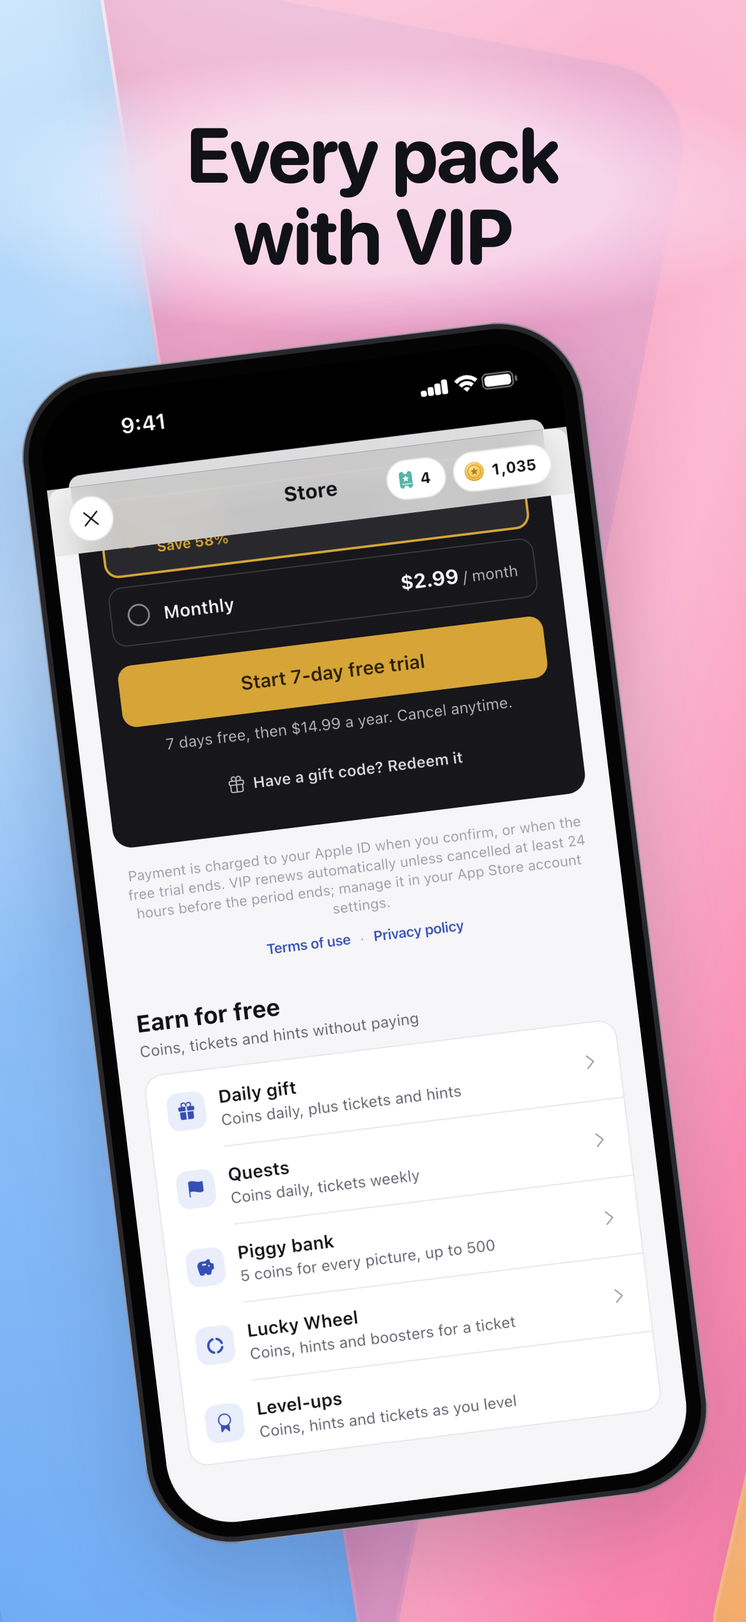
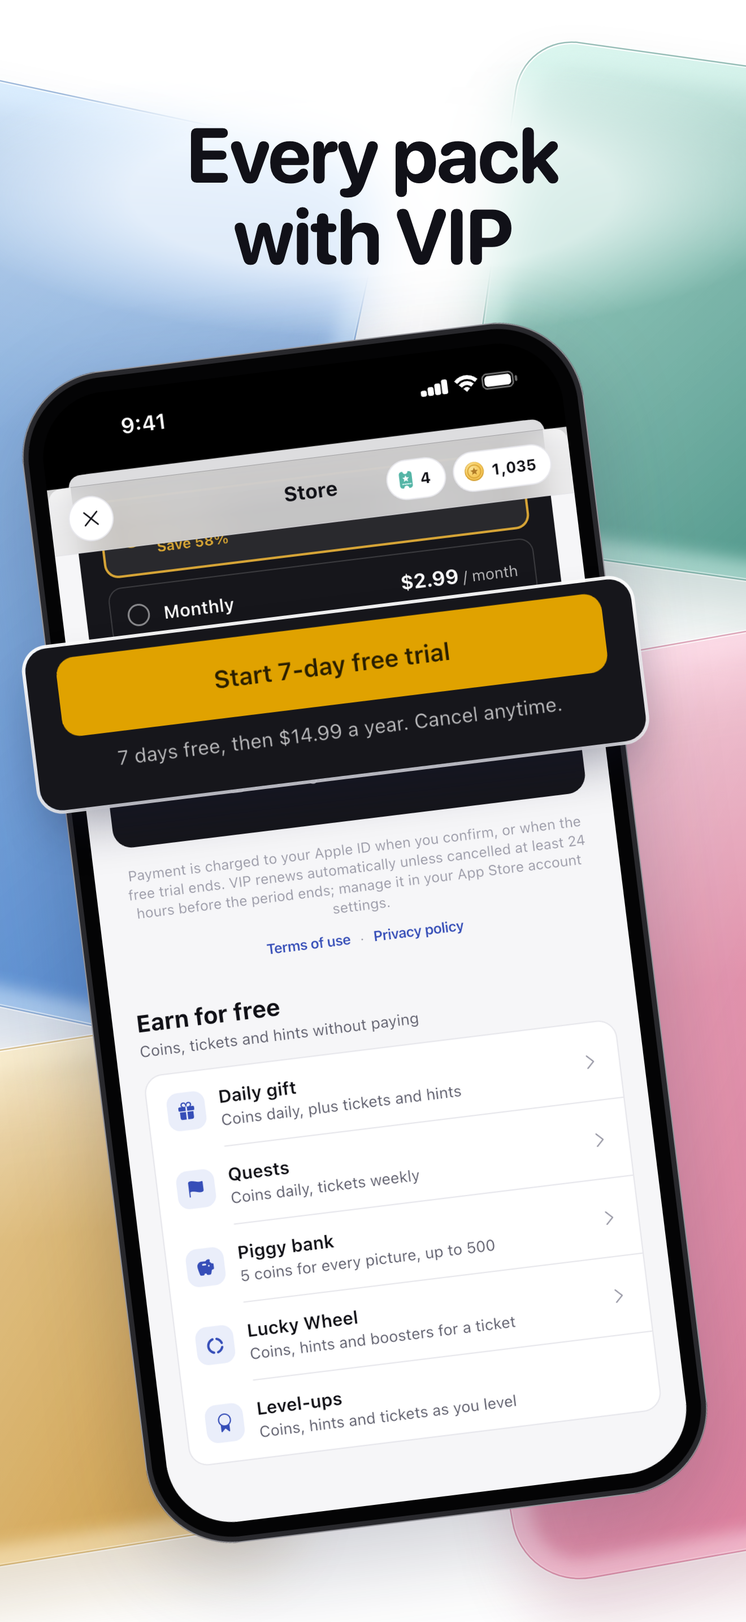
Store screenshots: glass panes on white, filled rows, cards that tilt with their phone
- The panes are drawn with the app icon's glass recipe (tinted see-through body, top sheen, light
  edge zone, rim of light, crisp edge, tinted shadow) on a white canvas; the bodies multiply, so
  overlaps mix like stained glass and white shows between them. Two panes per seam, alternating
  up and down. The dark finale draws them as deep jewel tones.
- Slide 2 gets a neat row of pack covers under its headline; slide 6 a row of solved daily
  pictures with their stars, so neither ends in empty space.
- Phones and their lifted cards share one frame: the live event card on slide 7 now tilts with its
  phone. A card that enlarges part of the same screen centres itself over it (no x/y needed).
- Slide 8 moves to the flat layout; slide 9 lifts out the 7-day trial; slide 4's shape cards stay
  inside the slide.

Not uploaded to App Store Connect yet.

diff --git a/tools/store/glass/slides.html b/tools/store/glass/slides.html
@@ -1,31 +1,24 @@
 <!doctype html>
 <!-- Carden App Store slides in the glass style. tools/store/compose_glass.py fills in __DATA__ and
-     __FONT__ and renders one slide per #<number> at 1320 x 2868. The look lives here (panes, halo,
-     headline, phones, break-out cards); the copy and the slide list live in compose_glass.py. -->
+     __FONT__ and renders one slide per #<number> at 1320 x 2868. The look lives here (glass panes,
+     halo, headline, phones, break-out cards, picture rows); the copy and slide list live in the script.
+     The panes use the app icon's glass recipe (tools/brand/icon-glass.js): a see-through tinted body,
+     a top sheen, a light edge zone, a rim of light, a crisp edge and a tinted shadow; on the white
+     canvas the bodies multiply, so overlapping panes mix like stained glass. -->
 <html><head><meta charset="utf-8"><style>
 @font-face { font-family: "Head"; src: url("__FONT__"); font-weight: 100 1000; }
 * { box-sizing: border-box; }
 html, body { margin: 0; background: transparent; }
-.slide { position: relative; width: 1320px; height: 2868px; overflow: hidden; background: #F3F3F7;
-  --ink: #111118; --halo: rgba(246,246,250,.62); --paneA: .74; --shade: rgba(30,30,60,.20); }
-.slide.dark { background: #0A0A10; --ink: #F5F5F8; --halo: rgba(10,10,16,.45); --paneA: .82; --shade: rgba(0,0,0,.6); }
+.slide { position: relative; width: 1320px; height: 2868px; overflow: hidden; background: #FFFFFF;
+  --ink: #111118; --halo: rgba(255,255,255,.66); --shade: rgba(28,30,60,.22); }
+.slide.dark { background: #0A0A10; --ink: #F5F5F8; --halo: rgba(10,10,16,.5); --shade: rgba(0,0,0,.6); }
+.world { position: absolute; top: 0; }
+.body { mix-blend-mode: multiply; }
+.dark .body { mix-blend-mode: normal; filter: brightness(.42) saturate(1.45); }
+.dark .top { opacity: .42; }
 
-/* Glass panes: one panorama across all slides, shifted per slide so a pane cut by an edge goes on. */
-.world { position: absolute; top: 0; height: 2868px; }
-.pane { position: absolute; border-radius: 150px; opacity: var(--paneA);
-  box-shadow: 0 80px 160px -40px var(--shade), inset 0 4px 0 rgba(255,255,255,.6), inset 0 -60px 120px rgba(0,0,0,.08); }
-.pane::before { content: ""; position: absolute; inset: 0; border-radius: inherit; padding: 6px;
-  background: linear-gradient(150deg, rgba(255,255,255,.95), rgba(255,255,255,.2) 25%, rgba(255,255,255,0) 55%, rgba(255,255,255,.5));
-  -webkit-mask: linear-gradient(#000 0 0) content-box, linear-gradient(#000 0 0); -webkit-mask-composite: xor; mask-composite: exclude; }
-.pane::after { content: ""; position: absolute; inset: 0; border-radius: inherit;
-  background: linear-gradient(115deg, rgba(255,255,255,0) 30%, rgba(255,255,255,.28) 42%, rgba(255,255,255,0) 54%),
-              radial-gradient(80% 40% at 25% 0%, rgba(255,255,255,.5), rgba(255,255,255,0) 60%); }
-.dark .pane { filter: brightness(.36) saturate(1.35); }
-.dark .pane::after { opacity: .5; }
-
-/* Headline on a soft frosted halo (no box). */
-.halo { position: absolute; left: -100px; right: -100px; border-radius: 50%; background: var(--halo);
-  -webkit-backdrop-filter: blur(40px) saturate(1.3); backdrop-filter: blur(40px) saturate(1.3);
+.halo { position: absolute; left: -120px; right: -120px; border-radius: 50%; background: var(--halo);
+  -webkit-backdrop-filter: blur(36px) saturate(1.2); backdrop-filter: blur(36px) saturate(1.2);
   -webkit-mask-image: radial-gradient(closest-side, #000 55%, transparent 100%); mask-image: radial-gradient(closest-side, #000 55%, transparent 100%); }
 h1 { position: absolute; left: 70px; right: 70px; margin: 0; text-align: center; white-space: nowrap;
   font-family: "Head"; font-weight: var(--weight); line-height: 1.06; letter-spacing: var(--track); color: var(--ink); }
@@ -33,45 +26,63 @@ h1 { position: absolute; left: 70px; right: 70px; margin: 0; text-align: center;
 .brand img { width: 108px; height: 108px; border-radius: 22.37%; box-shadow: 0 8px 24px rgba(0,0,0,.14); }
 .brand span { font-family: "Head"; font-weight: var(--weight); font-size: 76px; letter-spacing: var(--track); color: var(--ink); }
 
-.phone { position: absolute; filter: drop-shadow(0 60px 80px var(--shade)); transform-origin: 50% 40%; }
-.out { position: absolute; overflow: hidden; box-shadow: 0 50px 90px -24px rgba(20,20,50,.45), 0 0 0 6px rgba(255,255,255,.92); }
-.dark .out { box-shadow: 0 50px 90px -24px rgba(0,0,0,.7), 0 0 0 5px rgba(255,255,255,.3); }
+/* A phone and the cards lifted out of it share one frame, so a tilted phone tilts its cards too. */
+.phonebox { position: absolute; transform-origin: 50% 40%; }
+.phone { position: absolute; left: 0; top: 0; filter: drop-shadow(0 60px 80px var(--shade)); }
+.out { position: absolute; overflow: hidden; box-shadow: 0 46px 90px -24px rgba(20,22,50,.42), 0 0 0 6px rgba(255,255,255,.95); }
+.dark .out { box-shadow: 0 46px 90px -24px rgba(0,0,0,.7), 0 0 0 5px rgba(255,255,255,.3); }
 .out img { display: block; width: 100%; }
 .out b { position: absolute; left: 50%; bottom: 22px; transform: translateX(-50%); padding: 12px 26px; border-radius: 999px;
-  background: rgba(255,255,255,.88); font: 600 40px/1 "Head"; color: #111118; white-space: nowrap; }
-.cover { position: absolute; width: 300px; border-radius: 34px; object-fit: cover;
-  box-shadow: 0 40px 70px -20px rgba(20,20,50,.4), 0 0 0 6px rgba(255,255,255,.9); }
+  background: rgba(255,255,255,.9); font: 600 40px/1 "Head"; color: #111118; white-space: nowrap; }
+.pic { position: absolute; object-fit: cover; box-shadow: 0 36px 70px -20px rgba(20,22,50,.38), 0 0 0 6px rgba(255,255,255,.95); }
 </style></head><body><div id="root"></div><script>
 const S = __DATA__;
 const n = +(decodeURIComponent(location.hash.slice(1)) || 1), sl = S.slides[n - 1], W = S.W, H = S.H;
-const grad = c => `linear-gradient(165deg, ${S.glass[c][0]} 0%, ${S.glass[c][1]} 100%)`;
 const file = f => S.parts + "/" + f;
 document.documentElement.style.setProperty("--weight", S.font.weight);
 document.documentElement.style.setProperty("--track", S.font.track + "em");
 
+// ---- glass panes (one panorama; this slide shows its own window of it)
+function panesSVG() {
+  const defs = [], body = [], top = [];
+  S.panes.forEach((p, i) => {
+    const t = S.glass[p.c], cx = p.x + p.w / 2, cy = p.y + p.h / 2, rx = p.rx;
+    const rot = `rotate(${p.r} ${cx} ${cy})`, rect = a => `<rect x="${p.x}" y="${p.y}" width="${p.w}" height="${p.h}" rx="${rx}" ${a}/>`;
+    defs.push(`<linearGradient id="b${i}" x1="0" y1="0" x2="1" y2="1"><stop offset="0" stop-color="${t.hi}" stop-opacity="${S.body[0]}"/><stop offset="1" stop-color="${t.lo}" stop-opacity="${S.body[1]}"/></linearGradient>`,
+      `<linearGradient id="s${i}" x1="0" y1="0" x2="0" y2="1"><stop offset="0" stop-color="#fff" stop-opacity=".42"/><stop offset=".38" stop-color="#fff" stop-opacity="0"/></linearGradient>`,
+      `<linearGradient id="g${i}" x1=".1" y1="0" x2=".9" y2="1"><stop offset="0" stop-color="#fff" stop-opacity="1"/><stop offset=".3" stop-color="#fff" stop-opacity=".5"/><stop offset=".62" stop-color="#fff" stop-opacity=".12"/><stop offset="1" stop-color="#fff" stop-opacity=".6"/></linearGradient>`,
+      `<clipPath id="c${i}">${rect("")}</clipPath>`);
+    // tinted shadow, then the body (multiplied, so overlaps mix like stained glass)
+    body.push(`<g transform="${rot}">${rect(`fill="${t.shadow}" opacity="${S.shadow}" filter="url(#blur)" transform="translate(0 70)"`)}</g>`,
+      `<g class="body" transform="${rot}">${rect(`fill="url(#b${i})"`)}</g>`);
+    // sheen, light edge zone (thickness), rim of light, crisp edge
+    top.push(`<g class="top" transform="${rot}">${rect(`fill="url(#s${i})"`)}` +
+      `<g clip-path="url(#c${i})">${rect(`fill="none" stroke="${t.edge}" stroke-width="70" opacity=".55" filter="url(#soft)"`)}</g>` +
+      rect(`fill="none" stroke="url(#g${i})" stroke-width="7"`) + rect(`fill="none" stroke="${t.line}" stroke-width="2.5" opacity=".42"`) + `</g>`);
+  });
+  return `<svg class="world" style="left:${-(n - 1) * W}px" width="${W * S.slides.length}" height="${H}" viewBox="0 0 ${W * S.slides.length} ${H}">` +
+    `<defs><filter id="blur" x="-30%" y="-30%" width="160%" height="160%"><feGaussianBlur stdDeviation="55"/></filter>` +
+    `<filter id="soft" x="-10%" y="-10%" width="120%" height="120%"><feGaussianBlur stdDeviation="14"/></filter>${defs.join("")}</defs>` +
+    body.join("") + top.join("") + `</svg>`;
+}
+
 function render(size) {
-  let h = `<div class="world" style="left:${-(n - 1) * W}px;width:${W * S.slides.length}px">` + S.panes.map(p =>
-    `<div class="pane" style="left:${p.x}px;top:${p.y}px;width:${p.w}px;height:${p.h}px;transform:rotate(${p.r}deg);background:${grad(p.c)}"></div>`).join("") + `</div>`;
+  let h = panesSVG();
   const lines = sl.head.split("\n").length, lh = size * 1.06, L = S.layout;
   let headTop, phoneTop;
   if (sl.layout === "B") { phoneTop = L.b_phone_top; headTop = phoneTop + S.phone_h + L.b_gap; }
   else { headTop = sl.brand ? L.a_head_top_brand : L.a_head_top; phoneTop = headTop + lines * lh + L.a_gap; }
-  (sl.covers || []).forEach(c => { h += `<img class="cover" src="${c.src}" style="left:${c.x}px;top:${c.y}px;height:${c.h}px;transform:rotate(${c.r}deg)">`; });
+  const pics = (sl.pics || []).map(c => `<img class="pic" src="${c.src}" style="left:${c.x}px;top:${c.y}px;width:${c.w}px;height:${c.h}px;border-radius:${c.radius}px;transform:rotate(${c.r}deg)">`).join("");
+  h += pics;  // floating covers and picture rows sit behind the halo and the phone
   const haloTop = headTop - (sl.brand ? 230 : 110), haloH = lines * lh + (sl.brand ? 340 : 220);
   h += `<div class="halo" style="top:${haloTop}px;height:${haloH}px"></div>`;
   if (sl.brand) h += `<div class="brand" style="top:${headTop - 190}px"><img src="${S.icon}"><span>Carden</span></div>`;
   h += `<h1 style="top:${headTop}px;font-size:${size}px">${sl.head.replace(/\n/g, "<br>")}</h1>`;
-  const left = (W - S.phone_w) / 2, tilt = sl.tilt || 0;
-  if (sl.second) {  // two phones, same size: the second one behind, leaning the other way
-    h += `<img class="phone" src="${file(sl.second)}" style="width:${S.phone_w}px;left:${left + 250}px;top:${phoneTop + 140}px;transform:rotate(${tilt + 3}deg)">`;
-    h += `<img class="phone" src="${file(sl.phone)}" style="width:${S.phone_w}px;left:${left - 230}px;top:${phoneTop}px;transform:rotate(${-tilt + 2}deg)">`;
-  } else {
-    const dx = tilt ? (tilt < 0 ? -40 : 40) : 0;
-    h += `<img class="phone" src="${file(sl.phone)}" style="width:${S.phone_w}px;left:${left + dx}px;top:${phoneTop}px;transform:rotate(${tilt}deg)">`;
-  }
-  (sl.out || []).forEach(o => {  // break-out cards, placed from the phone's top edge
-    h += `<div class="out" style="left:${o.x}px;top:${phoneTop + o.y}px;width:${o.w}px;border-radius:${o.radius}px;transform:rotate(${o.rot}deg)"><img src="${file(o.img)}">${o.label ? `<b>${o.label}</b>` : ""}</div>`;
-  });
+  const tilt = sl.tilt || 0, left = (W - S.phone_w) / 2 + (tilt ? (tilt < 0 ? -40 : 40) : 0);
+  const box = (x, y, rot, inner) => `<div class="phonebox" style="left:${x}px;top:${y}px;width:${S.phone_w}px;height:${S.phone_h}px;transform:rotate(${rot}deg)">${inner}</div>`;
+  if (sl.second) h += box(left + 250, phoneTop + 140, tilt + 3, `<img class="phone" src="${file(sl.second)}" style="width:${S.phone_w}px">`);
+  const outs = (sl.out || []).map(o => `<div class="out" style="left:${o.x}px;top:${o.y}px;width:${o.w}px;border-radius:${o.radius}px;transform:rotate(${o.rot}deg)"><img src="${file(o.img)}">${o.label ? `<b>${o.label}</b>` : ""}</div>`).join("");
+  h += box(sl.second ? left - 230 : left, phoneTop, sl.second ? -tilt + 2 : tilt, `<img class="phone" src="${file(sl.phone)}" style="width:${S.phone_w}px">${outs}`);
   document.getElementById("root").innerHTML = `<div class="slide${sl.dark ? " dark" : ""}">${h}</div>`;
 }
 // One headline size for the set; a slide shrinks only when a line would not fit the measure.

diff --git a/tools/store/compose_glass.py b/tools/store/compose_glass.py
@@ -6,7 +6,7 @@
     .venv/bin/python tools/store/compose_glass.py --font newyork    # rounded (default) | display | newyork
     .venv/bin/python tools/store/compose_glass.py --out /tmp/x --sheet /tmp/sheet.png
 
-Edit the copy and the slides in SLIDES below, the pane colours in GLASS; the look (panes, halo,
+Edit the copy and the slides in SLIDES below, the pane colours in GLASS_BASE; the look (panes, halo,
 headline, phones, break-out cards) is in tools/store/glass/slides.html. The app parts come from the
 raw captures of integration_test/store_screenshots_test.dart in store/raw/: light slides use the
 `<name>_light.png` captures (run the test with --dart-define=CJW_STORE_THEME=light), dark slides the
@@ -32,48 +32,83 @@ W, H = cs.W, cs.H
 
 # --------------------------------------------------------------------------------------------
 # The slides. Layouts: "A" headline on top, flat phone below; "B" phone from the top edge, headline
-# below; "C" headline on top, phone tilted `tilt` degrees (5-15; alternate the direction).
-# `phone`/`second`: capture names in store/raw (without _light). `out`: break-out cards cut from a
-# capture: `crop` is (capture, (left, top, right, bottom) in capture px) or (capture, "board");
-# x is slide px, y is measured from the phone's top edge, w is the card width. A card that
-# enlarges part of the same screen sits centred over that part (y = 37 + centre_px * 0.7015
-# - card_h / 2 for a flat phone), so it never shows twice. `second` puts a second phone behind.
+# below, a row of pictures under it; "C" headline on top, phone tilted `tilt` degrees (5-15;
+# alternate the direction). Slides 1-3 stay flat: search results show them as thumbnails.
+# `phone`/`second`: capture names in store/raw (without _light).
+# `out`: cards lifted out of the phone, cut from a capture: `crop` is (capture, (left, top, right,
+#   bottom) in capture px) or (capture, "board"); `w` is the card width. Without x/y the card sits
+#   centred over the same part of the phone's screen (so it never shows twice); with x/y it is
+#   placed in phone px (0,0 = the phone's top-left, before any tilt). Cards tilt with their phone.
+# `pics`: pictures on the slide itself: ("covers", ...) for pack covers from store/collage, or
+#   capture crops; laid out by `fan()` as a neat row, or at fixed spots.
 # Headlines: 2 lines, about five words; "\n" breaks the line. No subtext (illegible in search).
+
+DAILY = "18_daily_month_grid"
+STARRED = [(62, 840, 340, 1176), (674, 840, 952, 1176), (368, 1208, 646, 1546), (980, 1208, 1258, 1546), (368, 1576, 646, 1914)]
 
 SLIDES = [
     {"layout": "A", "head": "Swap cards.\nReveal the picture.", "phone": "03_game_cards", "brand": True},
-    {"layout": "B", "head": "Thousands\nof pictures", "phone": "15_library", "covers": True},
-    {"layout": "A", "head": "A new picture\nevery day", "phone": "18_daily_month_grid",
-     "out": [{"crop": ("18_daily_month_grid", (60, 530, 1260, 775)), "x": 70, "y": 374, "w": 1180, "radius": 44}]},
+    {"layout": "B", "head": "Thousands\nof pictures", "phone": "15_library",
+     "pics": [{"covers": [0, 3, 6, 9], "spots": [(-50, 300, 330, -8), (1040, 230, 380, 7), (-70, 1120, 330, 6), (1060, 1060, 380, -6)]},
+              {"covers": [12, 15, 18, 1, 4], "fan": {"w": 228, "h": 296, "top": 2480, "step": 244, "spread": 9, "drop": 50}}]},
+    {"layout": "A", "head": "A new picture\nevery day", "phone": DAILY,
+     "out": [{"crop": (DAILY, (60, 530, 1260, 775)), "w": 1180, "radius": 44}]},
     {"layout": "C", "head": "Four ways\nto play", "phone": "09_mode_hexagons", "tilt": -7,
-     "out": [{"crop": ("06_mode_cards", "board"), "x": 40, "y": 872, "w": 430, "rot": -9, "label": "Cards"},
-             {"crop": ("07_mode_squares", "board"), "x": 860, "y": 572, "w": 400, "rot": 8, "label": "Squares"},
-             {"crop": ("08_mode_triangles", "board"), "x": 880, "y": 1472, "w": 400, "rot": 5, "label": "Triangles"}]},
+     "out": [{"crop": ("06_mode_cards", "board"), "x": -60, "y": 880, "w": 430, "rot": -9, "label": "Cards"},
+             {"crop": ("07_mode_squares", "board"), "x": 690, "y": 560, "w": 400, "rot": 8, "label": "Squares"},
+             {"crop": ("08_mode_triangles", "board"), "x": 680, "y": 1440, "w": 400, "rot": 5, "label": "Triangles"}]},
     {"layout": "A", "head": "Puzzle your\nown photos", "phone": "20_my_puzzles",
-     "out": [{"crop": ("21_my_puzzle_game", "board"), "x": 700, "y": 1060, "w": 560, "rot": 4, "radius": 40}]},
+     "out": [{"crop": ("21_my_puzzle_game", "board"), "x": 540, "y": 1060, "w": 560, "rot": 4, "radius": 40}]},
     {"layout": "B", "head": "Fewer moves,\nmore stars", "phone": "04_complete",
-     "out": [{"crop": ("04_complete", (40, 1400, 1280, 1890)), "x": 60, "y": 954, "w": 1200, "radius": 48}]},
+     "out": [{"crop": ("04_complete", (40, 1400, 1280, 1890)), "w": 1200, "radius": 48}],
+     "pics": [{"crops": [(DAILY, b) for b in STARRED], "fan": {"w": 228, "h": 276, "top": 2480, "step": 250, "spread": 8, "drop": 44}, "radius": 22}]},
     {"layout": "C", "head": "Quests and\nlive events", "phone": "13_quests", "tilt": 7,
-     "out": [{"crop": ("14_quests_live", (60, 1440, 1260, 2480)), "x": 110, "y": 1130, "w": 900, "rot": -4, "radius": 44}]},
-    {"layout": "B", "head": "Climb the\nleaderboard", "phone": "22_social_league",
-     "out": [{"crop": ("22_social_league", (60, 720, 1260, 1200)), "x": 70, "y": 474, "w": 1180, "radius": 48}]},
-    {"layout": "C", "head": "Every pack\nwith VIP", "phone": "12_store_vip", "tilt": -7},
+     "out": [{"crop": ("14_quests_live", (60, 1440, 1260, 2480)), "x": 50, "y": 1180, "w": 900, "radius": 44}]},
+    {"layout": "A", "head": "Climb the\nleaderboard", "phone": "22_social_league",
+     "out": [{"crop": ("22_social_league", (60, 720, 1260, 1200)), "w": 1180, "radius": 48}]},
+    {"layout": "C", "head": "Every pack\nwith VIP", "phone": "12_store_vip", "tilt": -7,
+     "out": [{"crop": ("12_store_vip", (60, 670, 1260, 990)), "w": 1080, "radius": 40}]},
     {"layout": "A", "head": "Just as calm\nin the dark", "phone": "03_game_cards", "dark": True},
 ]
 
-# Pack covers floating beside the Library phone (slide px; height; rotation).
-COVER_SPOTS = [(-40, 380, 330, -8), (1040, 300, 380, 7), (-60, 1180, 330, 6), (1060, 1120, 380, -6), (20, 1960, 330, -4), (1000, 1900, 380, 9)]
-
-# Lotus glass: (light end, deep end) of each pane colour, as in the app icon.
-GLASS = {"pink": ("#FFA3C3", "#FF4F8B"), "gold": ("#FFDB80", "#F2A516"), "blue": ("#A9D8FF", "#2F86F2"), "teal": ("#8BE8CF", "#14A58B")}
+# Lotus glass, as in the app icon: the light and deep end of each pane colour.
+GLASS_BASE = {"pink": ("#FF8FB5", "#FF4F8B"), "gold": ("#FFD36A", "#F0A30F"), "blue": ("#8CCBFF", "#2F86F2"), "teal": ("#7FE3C9", "#16927E")}
 PANE_COLOURS = ["blue", "pink", "gold", "teal"]
+BODY_OPACITY = (.5, .74)  # light end, deep end of a pane's tinted body
+SHADOW_OPACITY = .2
+
+
+def mix(a: str, b: str, t: float) -> str:
+    x, y = (tuple(int(c[i:i + 2], 16) for i in (1, 3, 5)) for c in (a, b))
+    return "#" + "".join(f"{round(p + (q - p) * t):02x}" for p, q in zip(x, y))
+
+
+def glass_tones() -> dict:
+    """The tones of each glass colour (icon-glass.js): body ends, edge zone, crisp line, shadow."""
+    return {k: {"hi": mix(c0, "#ffffff", .22), "lo": mix(c1, "#000000", .1), "edge": mix(c0, "#ffffff", .7),
+                "line": mix(c1, "#000000", .3), "shadow": mix(c1, "#000000", .45)} for k, (c0, c1) in GLASS_BASE.items()}
 
 
 def panes(n: int) -> list[dict]:
-    """One huge pane centred on every seam (and both outer edges), so every screenshot shows two big
-    panes meeting on a diagonal and a pane cut by an edge goes on in the next screenshot."""
-    return [{"x": k * W - 980 + (60 if k % 2 else -60), "y": -420 + (k % 3) * 170, "w": 1960, "h": 3500,
-             "r": [11, -9, 13, -11][k % 4], "c": PANE_COLOURS[k % len(PANE_COLOURS)]} for k in range(n + 1)]
+    """Two panes on every seam (and both outer edges): a large one and a smaller one on the other
+    band, alternating up and down, so white canvas shows between them, a pane cut by a slide edge
+    goes on in the next slide, and only the background ever crosses a seam."""
+    out = []
+    for k in range(n + 1):
+        up = k % 2 == 0
+        out.append({"x": k * W - 590 + (50 if k % 2 else -50), "y": 150 if up else 1120, "w": 1180, "h": 1600,
+                    "rx": 120, "r": [12, -10, 10, -12][k % 4], "c": PANE_COLOURS[k % 4]})
+        out.append({"x": k * W - 380 + (-80 if k % 2 else 80), "y": 1850 if up else 110, "w": 760, "h": 900,
+                    "rx": 100, "r": [-9, 8, -7, 9][k % 4], "c": PANE_COLOURS[(k + 2) % 4]})
+    return out
+
+
+def fan(items: list[str], w: int, h: int, top: int, step: int, spread: float, drop: float, radius: int) -> list[dict]:
+    """A neat row of pictures centred on the slide, on a gentle arc: the middle one highest and
+    straight, the outer ones lower and turned outwards."""
+    mid = (len(items) - 1) / 2 or 1
+    return [{"src": src, "x": round(W / 2 + (i - mid) * step - w / 2), "y": round(top + drop * ((i - mid) / mid) ** 2),
+             "w": w, "h": h, "r": round(spread * (i - mid) / mid, 1), "radius": radius} for i, src in enumerate(items)]
 
 
 FONTS = {  # headline face: file, weight, tracking (em)
@@ -105,13 +140,21 @@ def board(name: str) -> tuple[int, int, int, int]:
     return round(left), round(top), round(left + w), round(top + h)
 
 
+def phone_screen() -> tuple[float, float]:
+    """Where a capture sits inside the phone frame of compose_screenshots.phone(): offset, scale."""
+    band, bezel = round(PHONE_W * 0.011), round(PHONE_W * 0.026)
+    return band + bezel, (PHONE_W - 2 * (band + bezel)) / cs.RAW_W
+
+
 def export_parts(parts: Path) -> list[dict]:
-    """Phones (one size) and break-out crops for every slide, as files the template loads."""
+    """Phones (one size), lifted cards and slide pictures for every slide, as files the template loads."""
+    off, k = phone_screen()
+    covers = [cs.COLLAGE / f"{p}.jpg" for p in cs.COLLAGE_PACKS if (cs.COLLAGE / f"{p}.jpg").exists()]
     slides = []
     for i, s in enumerate(SLIDES, start=1):
         dark = bool(s.get("dark"))
         edge = (20, 20, 24) if dark else (240, 240, 244)
-        d = {k: s[k] for k in ("layout", "head", "brand", "tilt", "dark") if k in s}
+        d = {key: s[key] for key in ("layout", "head", "brand", "tilt", "dark") if key in s}
         for key in ("phone", "second"):
             if key in s:
                 n = capture(s[key], dark)
@@ -120,19 +163,34 @@ def export_parts(parts: Path) -> list[dict]:
                     cs.phone(cs.load_raw(n), PHONE_W, edge).save(parts / f)
                 d[key] = f
         d["out"] = []
-        for k, o in enumerate(s.get("out", [])):
+        for j, o in enumerate(s.get("out", [])):
             n = capture(o["crop"][0], dark)
             box = board(n) if o["crop"][1] == "board" else o["crop"][1]
-            f = f"crop-{i}-{k}.png"
+            f = f"crop-{i}-{j}.png"
             cs.load_raw(n).crop(box).save(parts / f)
-            d["out"].append({"img": f, "x": o["x"], "y": o["y"], "w": o["w"], "rot": o.get("rot", 0),
+            h = (box[3] - box[1]) * o["w"] / (box[2] - box[0])
+            x = o.get("x", off + (box[0] + box[2]) / 2 * k - o["w"] / 2)
+            y = o.get("y", off + (box[1] + box[3]) / 2 * k - h / 2)
+            d["out"].append({"img": f, "x": round(x), "y": round(y), "w": o["w"], "rot": o.get("rot", 0),
                              "radius": o.get("radius", 34), "label": o.get("label", "")})
-        if s.get("covers"):
-            covers = [cs.COLLAGE / f"{p}.jpg" for p in cs.COLLAGE_PACKS if (cs.COLLAGE / f"{p}.jpg").exists()]
-            if not covers:
-                sys.exit("no pack covers in store/collage/; run tools/store/compose_screenshots.py --refresh-collage")
-            d["covers"] = [{"src": str(covers[j * 3 % len(covers)]), "x": x, "y": y, "h": h, "r": r}
-                           for j, (x, y, h, r) in enumerate(COVER_SPOTS)]
+        d["pics"] = []
+        for j, g in enumerate(s.get("pics", [])):
+            if "covers" in g:
+                if not covers:
+                    sys.exit("no pack covers in store/collage/; run tools/store/compose_screenshots.py --refresh-collage")
+                srcs = [str(covers[c % len(covers)]) for c in g["covers"]]
+            else:
+                srcs = []
+                for m, (name, box) in enumerate(g["crops"]):
+                    f = f"pic-{i}-{j}-{m}.png"
+                    cs.load_raw(capture(name, dark)).crop(box).save(parts / f)
+                    srcs.append(str(parts / f))
+            radius = g.get("radius", 30)
+            if "fan" in g:
+                d["pics"] += fan(srcs, radius=radius, **g["fan"])
+            else:
+                d["pics"] += [{"src": src, "x": x, "y": y, "w": round(hh * .8), "h": hh, "r": r, "radius": radius}
+                              for src, (x, y, hh, r) in zip(srcs, g["spots"])]
         slides.append(d)
     return slides
 
@@ -177,7 +235,8 @@ def main(argv: list[str]) -> None:
     for f in parts.glob("*.png"):
         f.unlink()
     font_file, weight, track = FONTS[a.font]
-    data = {"W": W, "H": H, "slides": export_parts(parts), "panes": panes(len(SLIDES)), "glass": GLASS,
+    data = {"W": W, "H": H, "slides": export_parts(parts), "panes": panes(len(SLIDES)), "glass": glass_tones(),
+            "body": BODY_OPACITY, "shadow": SHADOW_OPACITY,
             "parts": str(parts), "icon": str(ICON), "phone_w": PHONE_W,
             "phone_h": Image.open(next(parts.glob("phone-*.png"))).height,
             "head_size": HEAD_SIZE, "measure": MEASURE, "layout": LAYOUT,

diff --git a/store/README.md b/store/README.md
@@ -3,8 +3,8 @@
 Everything in this folder is generated. Edit the sources under `tools/store/`
 and the capture test, then rerun; do not hand-edit the PNGs.
 
-Design rules (glass set, `tools/store/compose_glass.py`): large panes of
-coloured glass in the lotus colours running across the whole set, light app
+Design rules (glass set, `tools/store/compose_glass.py`): panes of coloured
+glass in the lotus colours on a white canvas, running across the whole set, light app
 captures on a light canvas for slides 1-9 and a dark finale (slide 10), one
 phone size, three layouts, two-line headlines in SF Pro Rounded sized for
 search-result thumbnails, no subtext, no emoji, no ratings or awards. The
@@ -30,14 +30,14 @@ daily hook.
 | Slide | Headline | Layout | Shows (light captures unless noted) |
 | --- | --- | --- | --- |
 | `01.png` | Swap cards. Reveal the picture. | A + icon | `raw/03_game_cards`: Monarch butterfly, most cards placed |
-| `02.png` | Thousands of pictures | B | `raw/15_library` with real pack covers (`collage/`) floating beside it |
+| `02.png` | Thousands of pictures | B | `raw/15_library`, pack covers (`collage/`) beside it and in a row below |
 | `03.png` | A new picture every day | A | `raw/18_daily_month_grid`, today's card lifted out |
 | `04.png` | Four ways to play | C, -7 deg | `raw/09_mode_hexagons`, with the cards, squares and triangles boards (`raw/06`-`08`) lifted out |
 | `05.png` | Puzzle your own photos | A | `raw/20_my_puzzles`, the Corgi board of `raw/21_my_puzzle_game` lifted out |
-| `06.png` | Fewer moves, more stars | B | `raw/04_complete`, the Picture complete card lifted out |
-| `07.png` | Quests and live events | C, two phones | `raw/13_quests` in front of `raw/14_quests_live` |
-| `08.png` | Climb the leaderboard | B | `raw/22_social_league` (real player names, approved by the owner), the podium lifted out |
-| `09.png` | Every pack with VIP | C, -7 deg | `raw/12_store_vip` |
+| `06.png` | Fewer moves, more stars | B | `raw/04_complete`, Picture complete lifted out; a row of solved daily pictures with stars below |
+| `07.png` | Quests and live events | C, +7 deg | `raw/13_quests`, the World Food Day event of `raw/14_quests_live` lifted out |
+| `08.png` | Climb the leaderboard | A | `raw/22_social_league` (real player names, approved by the owner), the podium lifted out |
+| `09.png` | Every pack with VIP | C, -7 deg | `raw/12_store_vip`, the 7-day trial lifted out |
 | `10.png` | Just as calm in the dark | A, dark | `raw/03_game_cards` in the dark theme |
 
 Raw captures (dark theme; a `--dart-define=CJW_STORE_THEME=light` run writes

diff --git a/docs/store-screenshots.md b/docs/store-screenshots.md
@@ -17,16 +17,24 @@ in `tools/store/glass/slides.html`, then rerun the script.
   its product page preview (October 2026) only shows how the page looks in Dark
   Mode. So slides 1-9 show the light app on a light canvas and slide 10 switches
   to the dark app on a dark canvas ("Just as calm in the dark").
-- **Large glass panes** in the lotus colours (pink, gold, blue, teal), one
-  centred on every seam, so the set reads as one strip while each slide stands
-  alone: only the background crosses a seam, never a headline or a phone.
+- **Glass panes on white**: two large panes in the lotus colours (pink, gold,
+  blue, teal) on every seam, drawn with the app icon's glass recipe (see-through
+  tinted body, top sheen, light edge zone, rim of light, crisp edge, tinted
+  shadow). The bodies multiply on the white canvas, so overlaps mix like stained
+  glass, and white shows between them. The set reads as one strip while each
+  slide stands alone: only the background crosses a seam. The dark finale draws
+  the same panes as deep jewel tones.
 - **One phone size** everywhere: 1,000 px wide on the 1,320 px canvas.
-- **Three layouts:** A headline on top with a flat phone (1, 3, 5, 10); B phone
-  from the top edge with the headline below (2, 6, 8); C a phone tilted 7 degrees,
+- **Three layouts:** A headline on top with a flat phone (1, 3, 5, 8, 10); B phone
+  from the top edge, the headline below and a neat row of pictures under it (2:
+  pack covers, 6: solved pictures with their stars); C a phone tilted 7 degrees,
   alternating direction (4, 7, 9). Slides 1-3 stay flat, since search results
   show them as thumbnails.
 - **Break-out cards** lift one real part of the app out of the phone (today's
-  puzzle, the other three shapes, your own photo, Picture complete, the podium).
+  puzzle, the other three shapes, your own photo, Picture complete, the live
+  event, the podium, the VIP trial). A card that enlarges part of the same screen
+  sits centred over that part, and every card shares its phone's frame, so it
+  tilts with a tilted phone.
 - **Headlines only:** 2 lines of about five words, 136 px (a slide shrinks only
   if a line would pass 1,180 px), on a soft frosted halo. No subtext: it is
   unreadable at thumbnail size.
